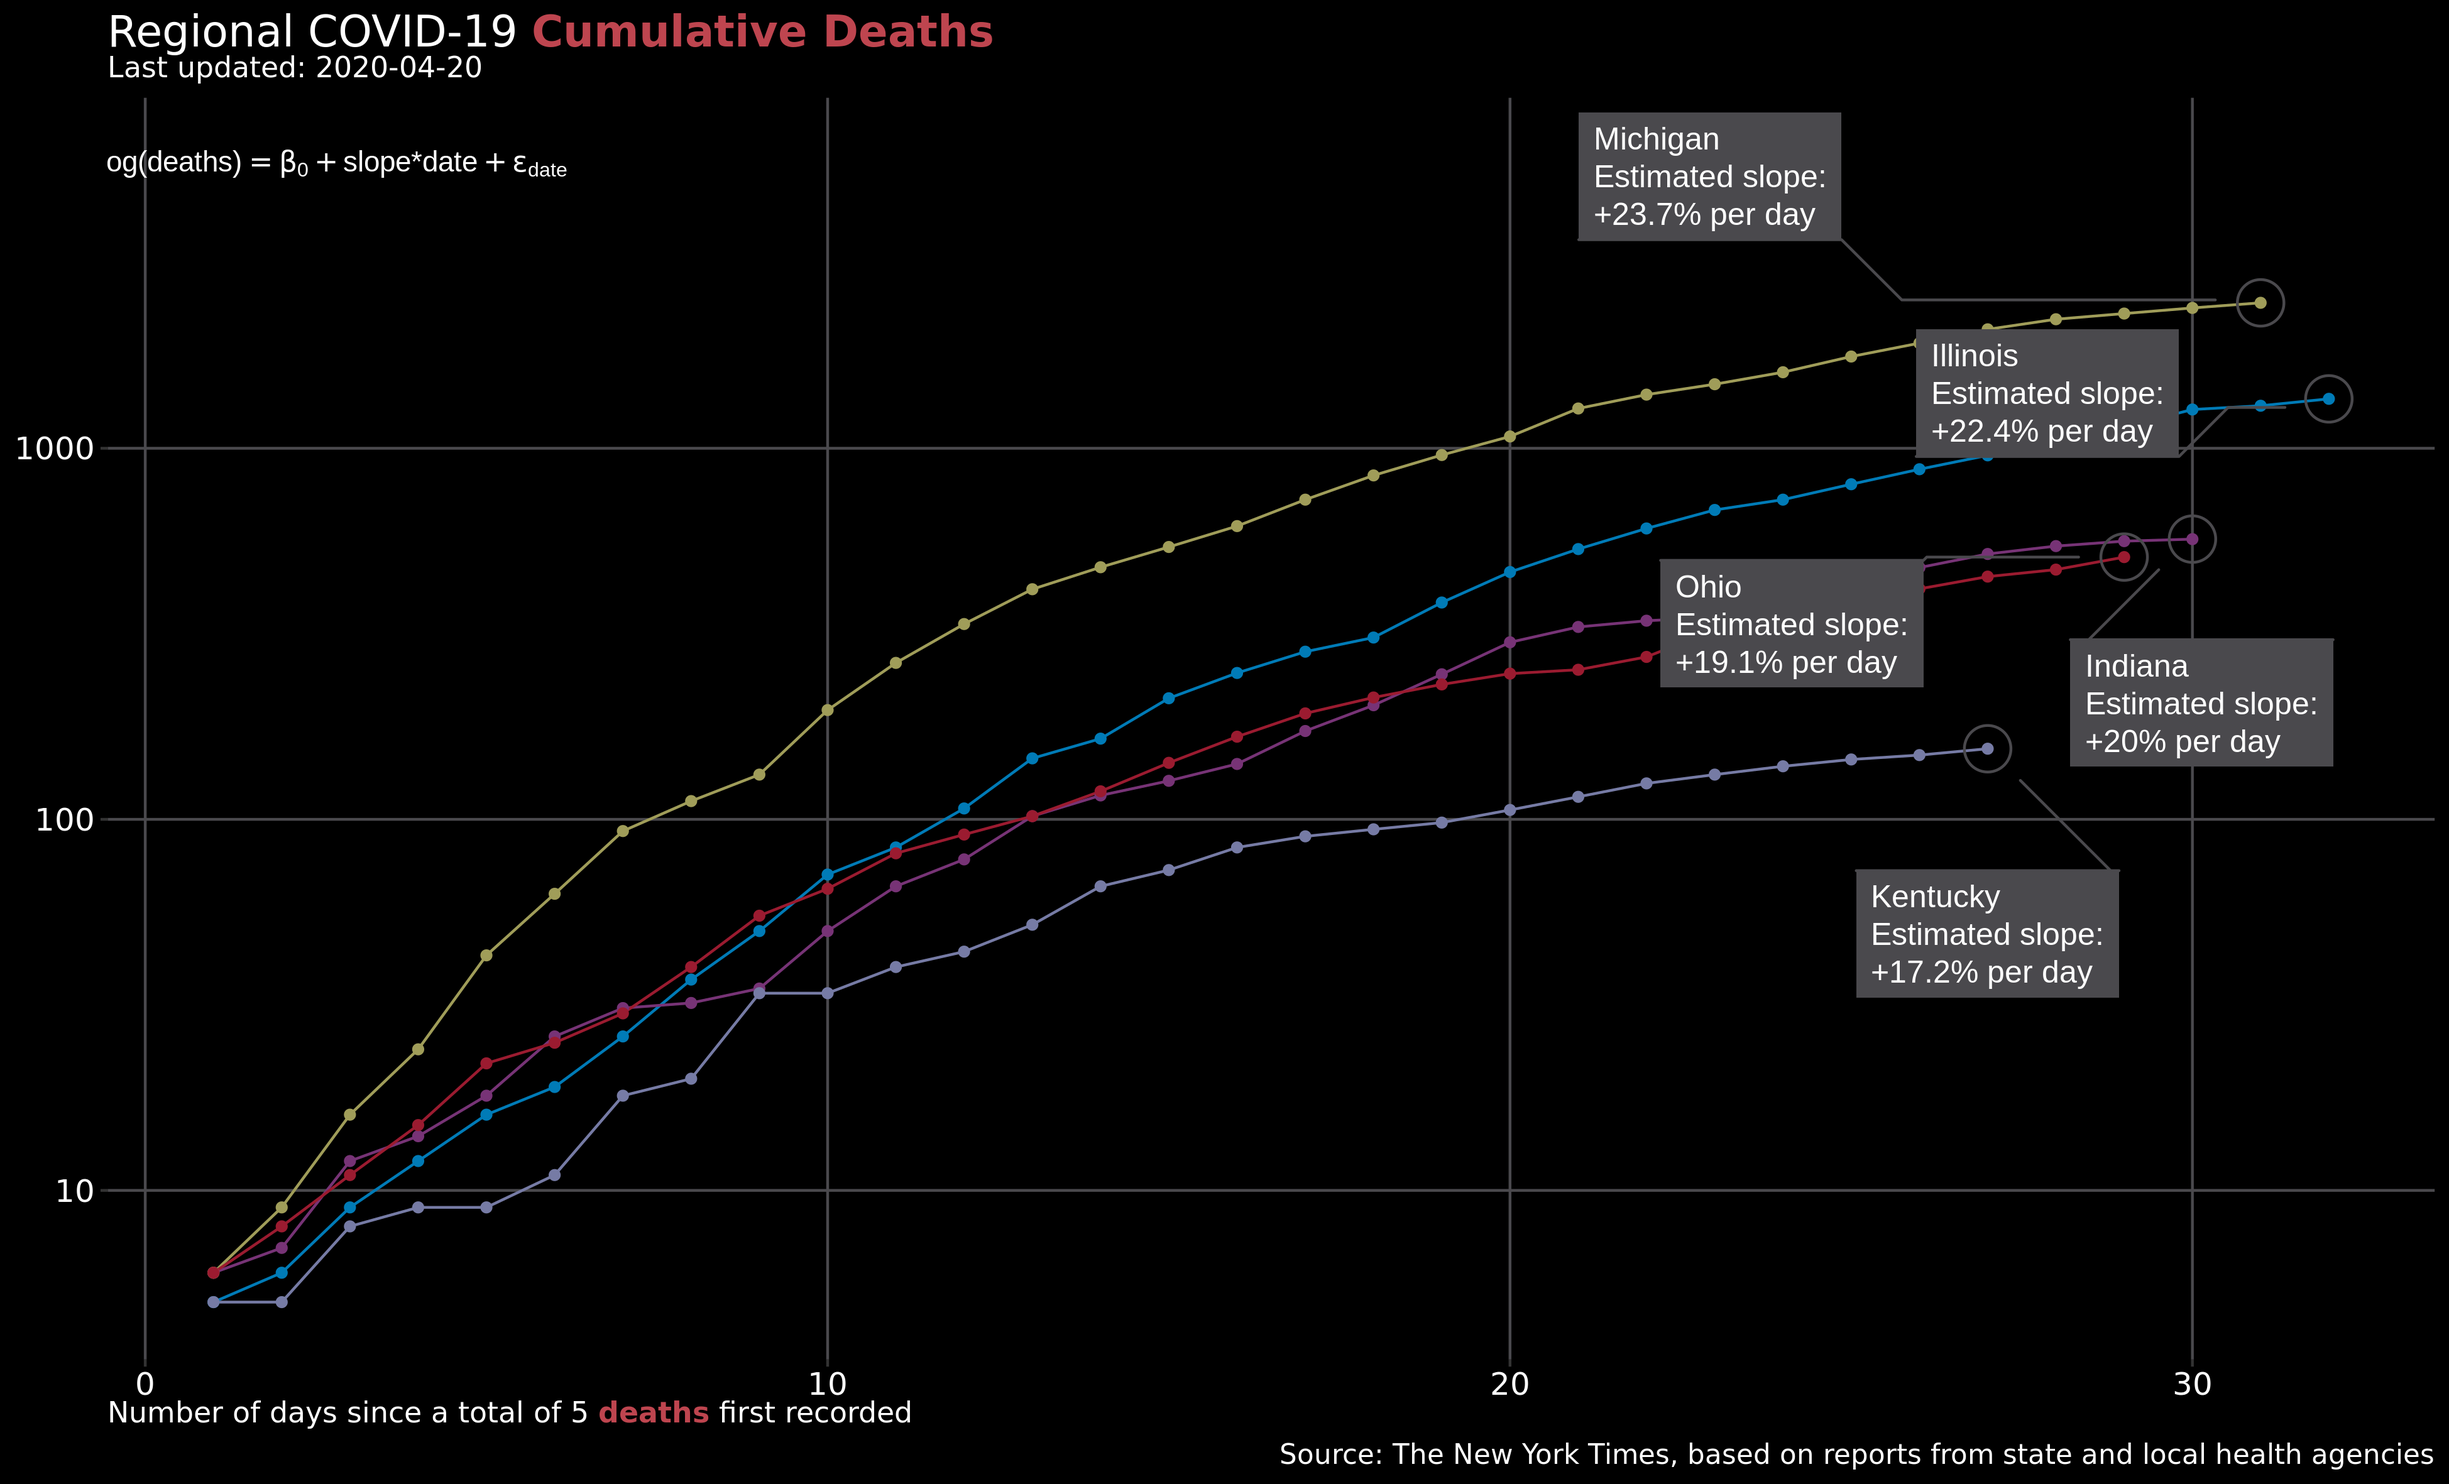
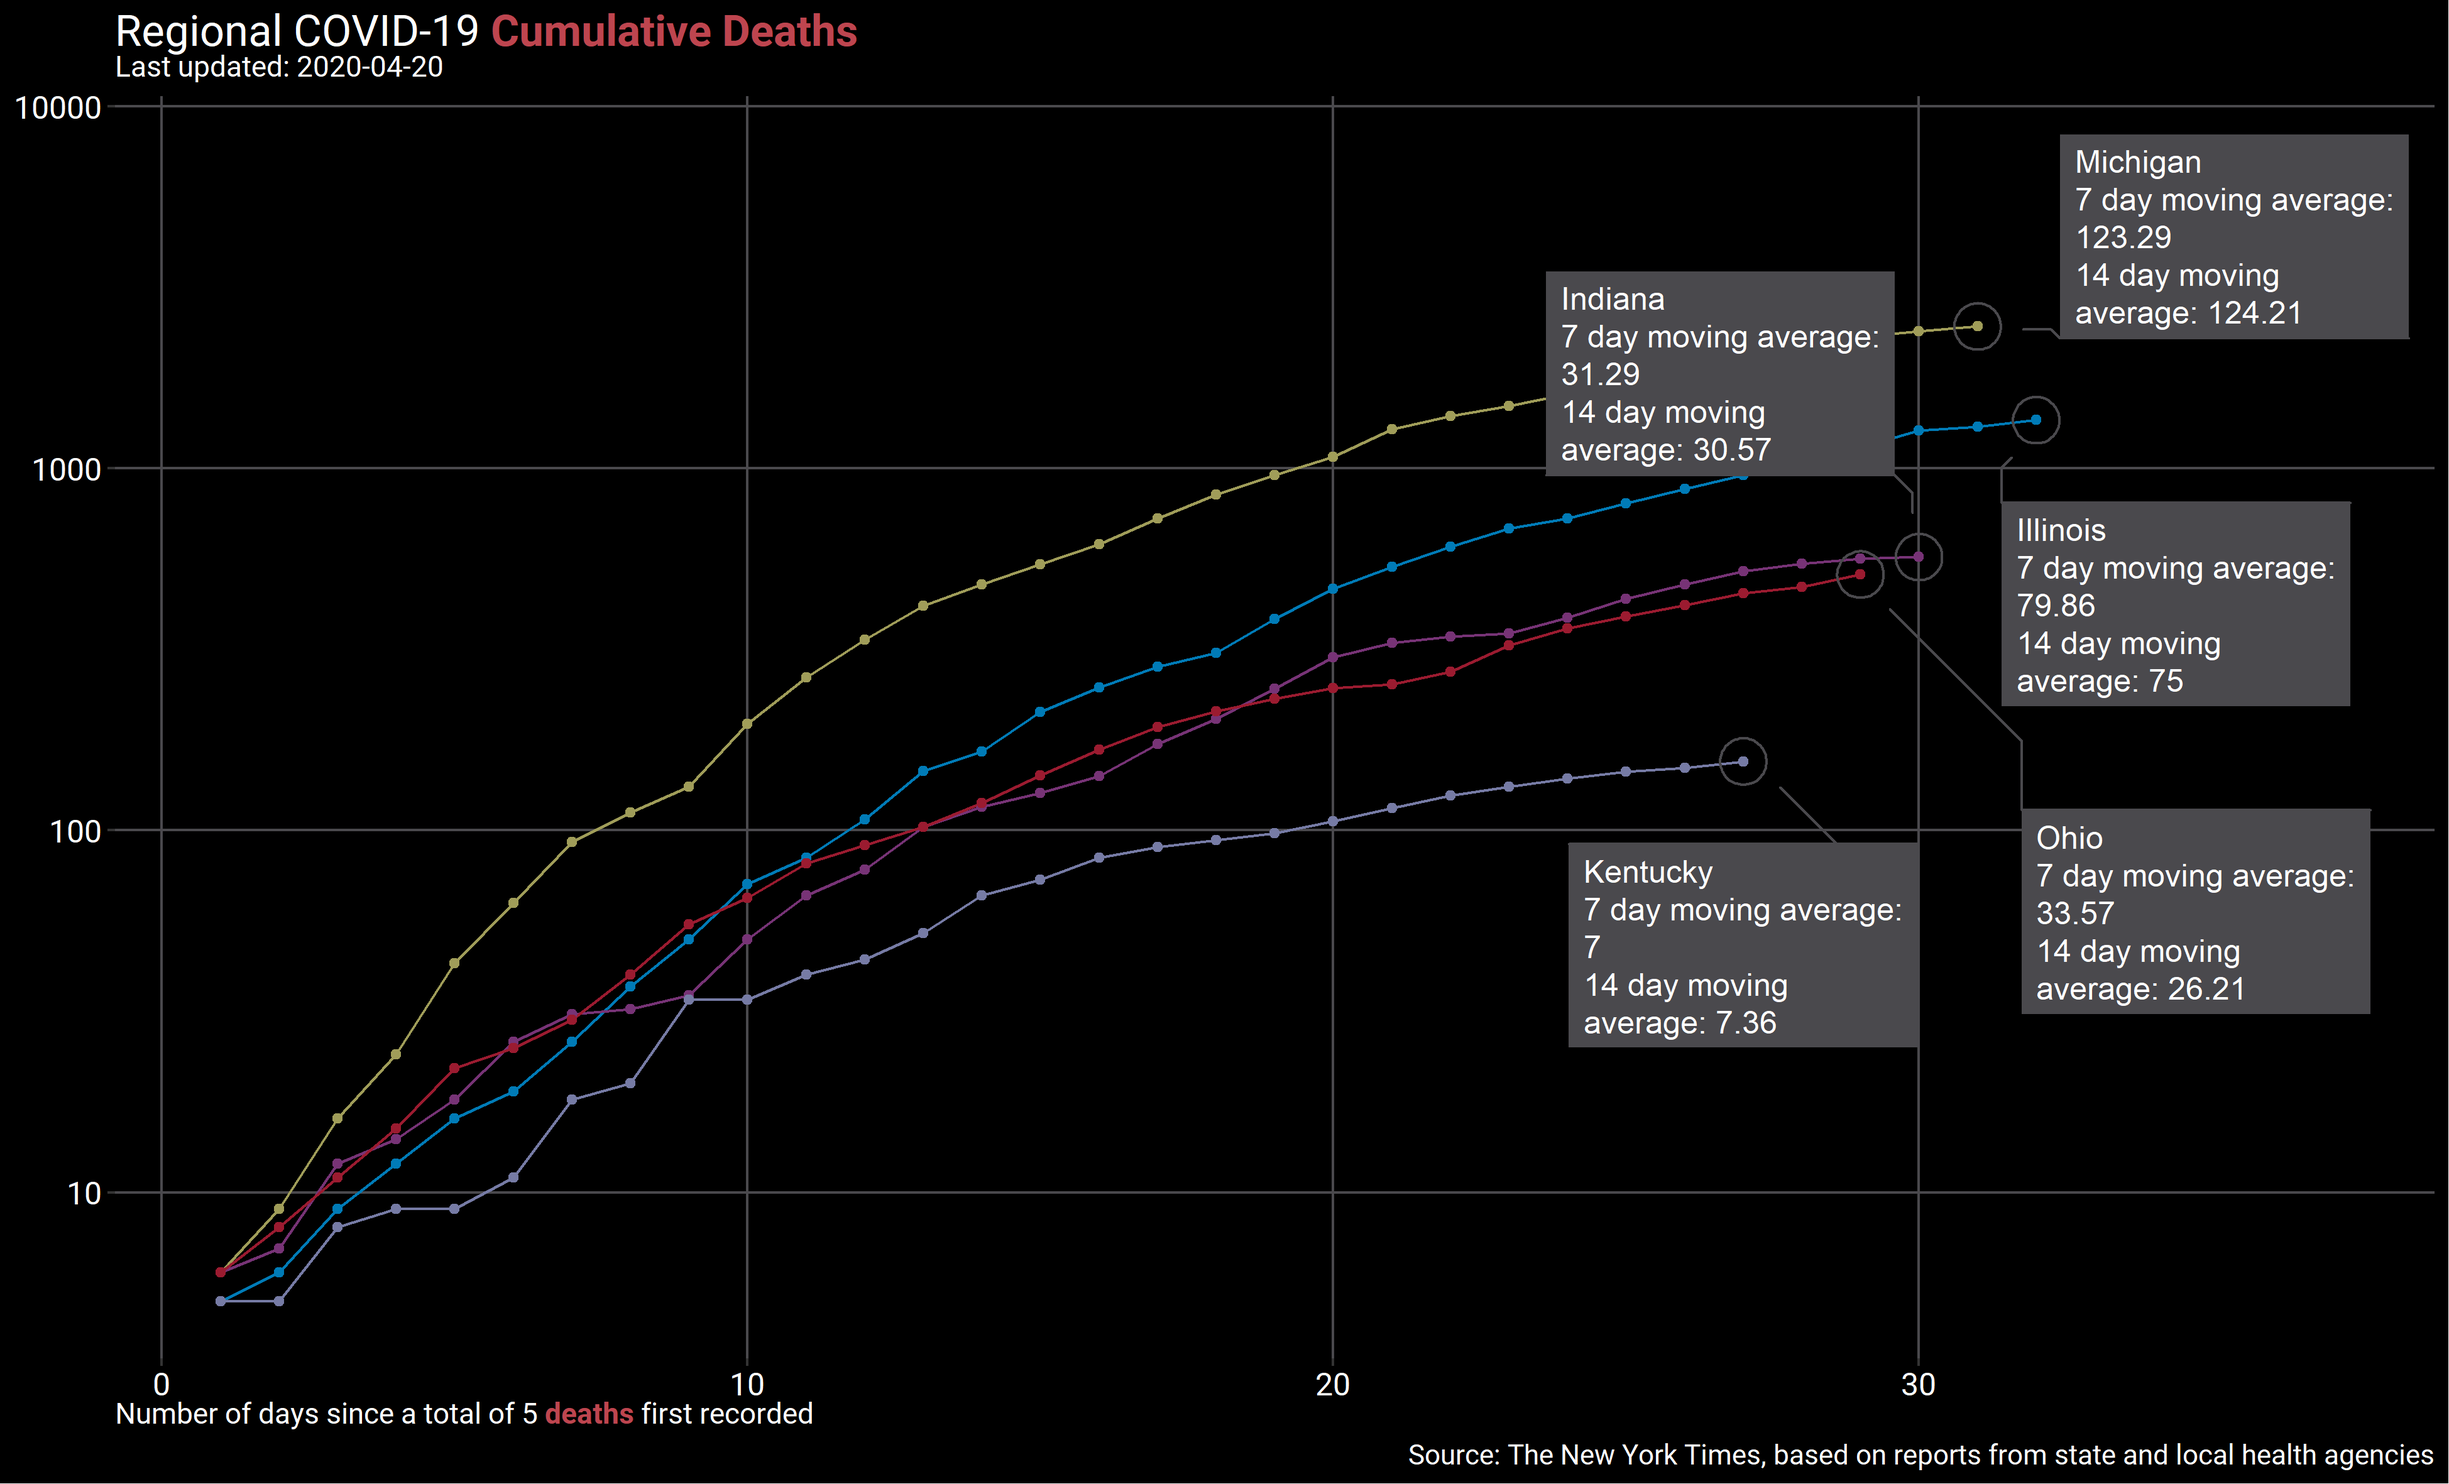
in regional, moved from slope estimates to moving averages

diff --git a/README.md b/README.md
@@ -73,20 +73,18 @@ comes from Julia Raifman, Kristen Nocka, et al at Boston University.
   - The y-axis has been transformed to the log base-10 scale. Slopes and
     trends of straight(-ish) lines are easier to compare than
     exponential curves.  
-  - The slope is an estimation of the average percentage increase per
-    day and are estimated using the log-linear regression equation in
-    the top left corner. As these lines start to curve downward, it
-    indicates the data is becoming less exponential. The estimation
-    errors become larger and the model less appropriate.
+  - 7-day moving averages *greater* than 14 day moving averages indicate
+    an *increasing* trend of positive cases.  
+  - 7-day moving averages *less* than 14 day moving averages indicate a
+    *decreasing* trend in positive cases.
 
 <img src="plots/county-pos-bar-2020-04-20.png" width="3897" />
 
   - The top 20 counties according to estimated average percent change
     are shown. Counties at the top are experiencing the highest growth
     rates in positive test results.
-  - The percent changes are estimated using the same regression equation
-    as the regional percent changes in the previous chart except I’m
-    using county data here.  
+  - The percent changes are estimated using county data in a log-linear
+    model.  
   - Only counties that have had at least 5 positive cases for a week or
     more are considered. I’m trying to weed out the high rate estimates
     that are due to a spike in testing. As tests become more widely
